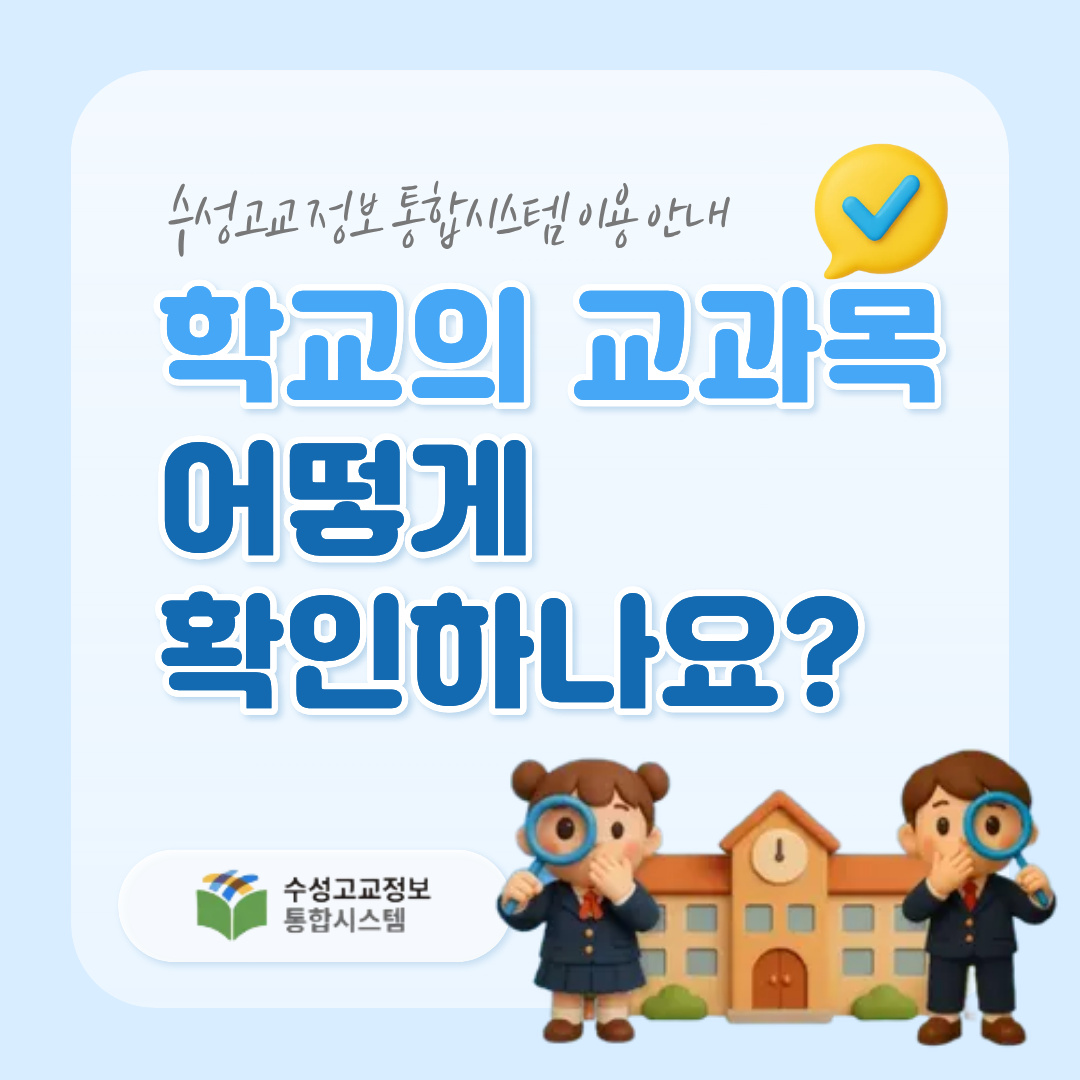
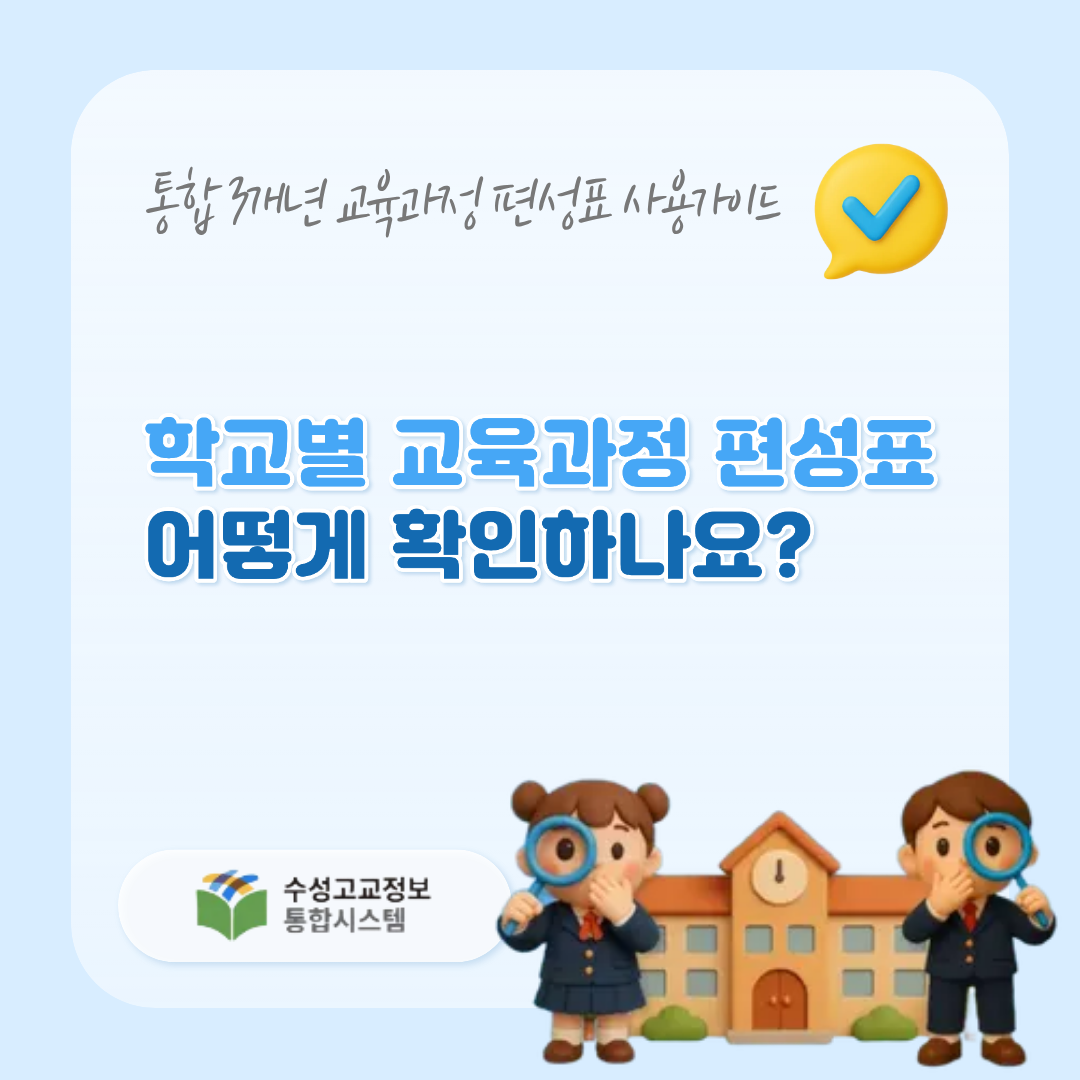
update home page

Changed region(s): [[0.1222, 0.1528, 0.8861, 0.6722], [0.4583, 0.6722, 0.9778, 1.0]]

diff --git a/src/app/curriculum/page.tsx b/src/app/curriculum/page.tsx
@@ -14,6 +14,13 @@ export default function CurriculumPage() {
     "/curriculum/slide2.png",
     "/curriculum/slide3.png",
     "/curriculum/slide4.png",
+    "/curriculum/slide5.png",
+    "/curriculum/slide6.png",
+    "/curriculum/slide7.png",
+    "/curriculum/slide8.png",
+    "/curriculum/slide9.png",
+    "/curriculum/slide10.png",
+    "/curriculum/slide11.png",
   ];
 
   // ✅ 학교 데이터
